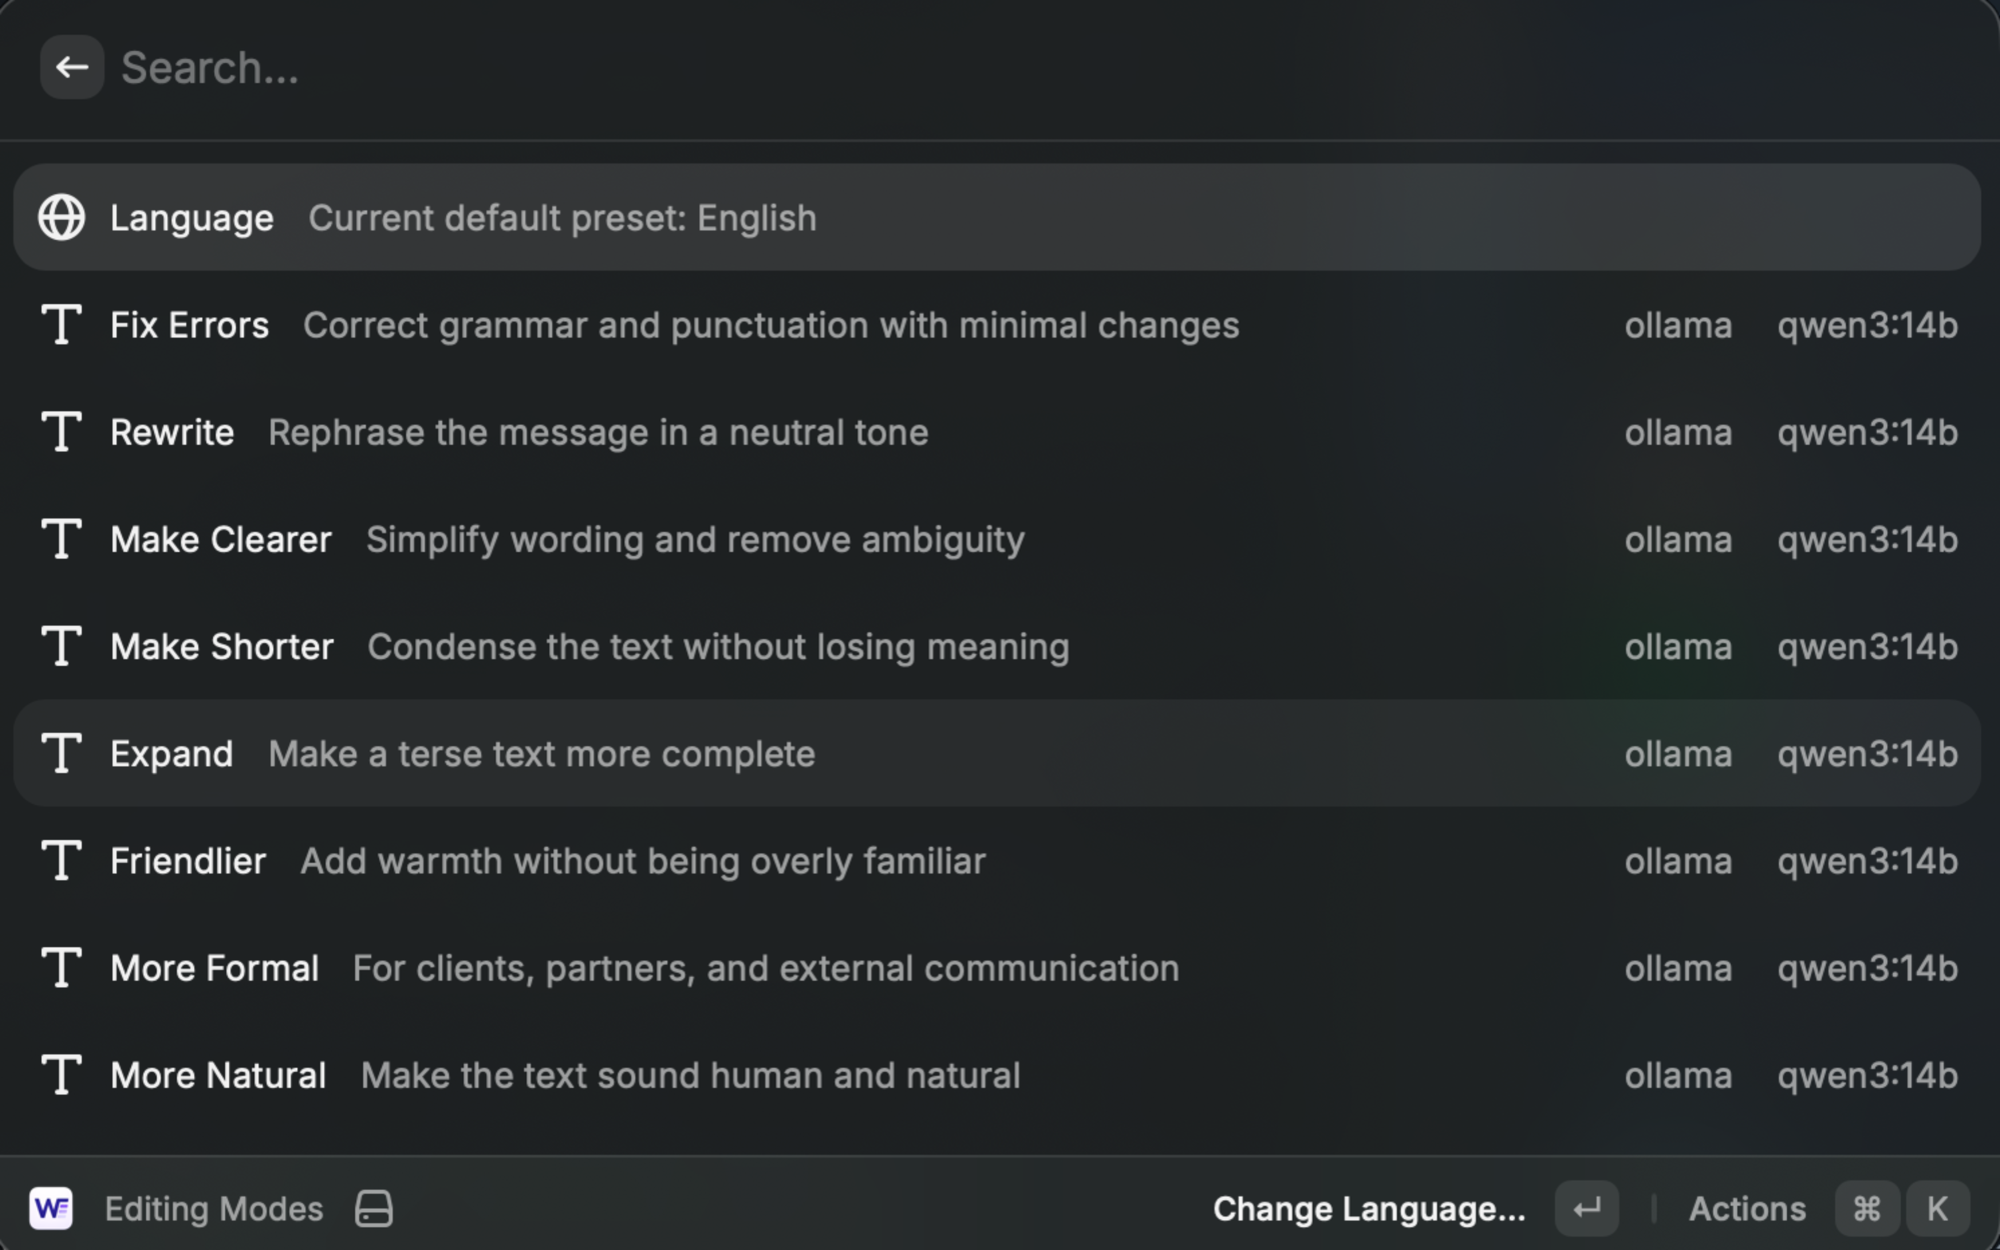
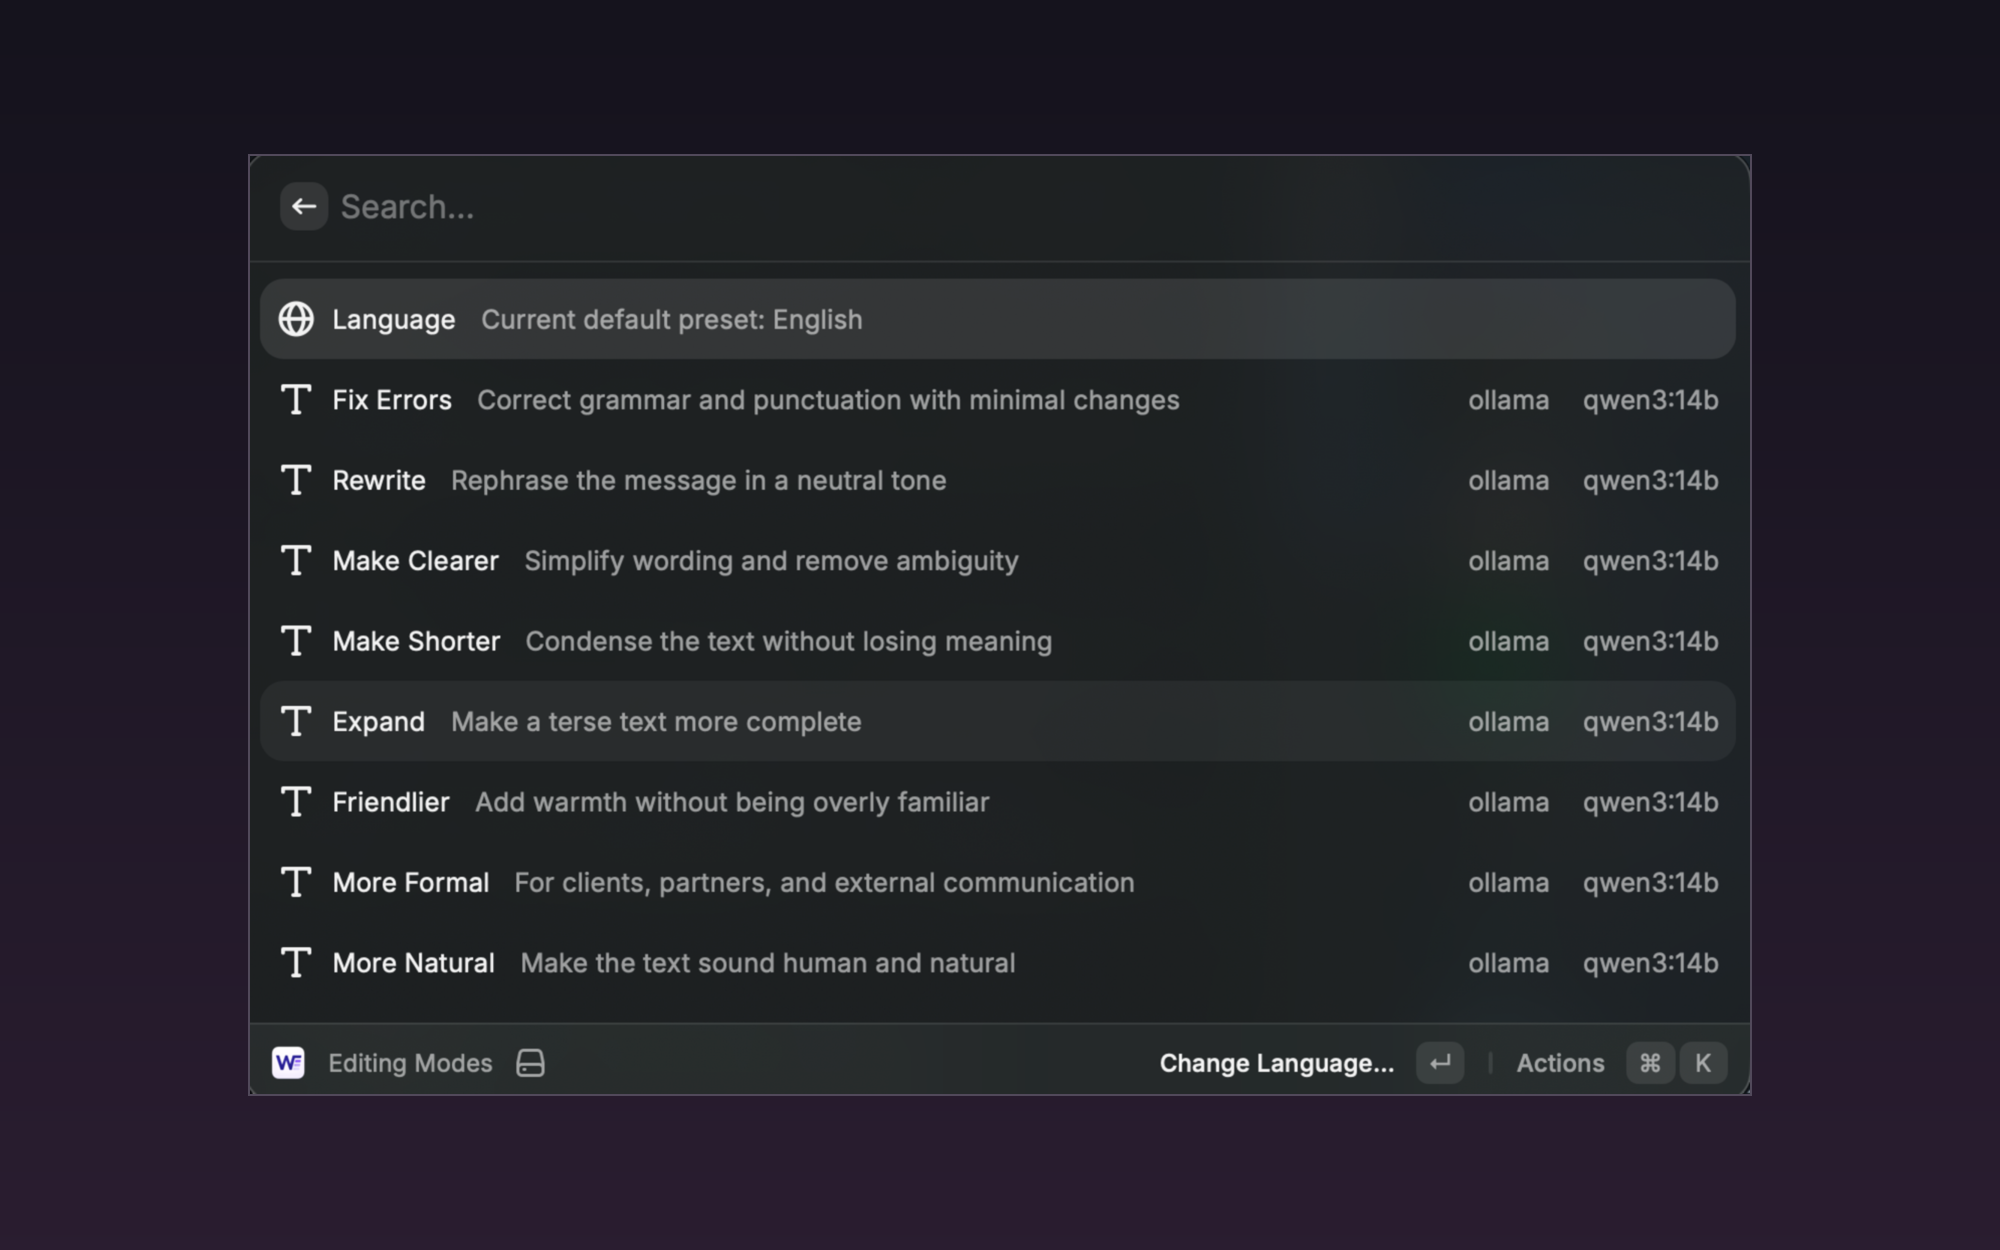
fix: satisfy raycast store validation

diff --git a/src/modes.ts b/src/modes.ts
@@ -179,14 +179,13 @@ function validateStoredModeDocument(value: unknown): StoredModeDocument {
     if (!Array.isArray(value.modes)) {
       throw damagedStorageError();
     }
+    const language = value.language;
 
     return {
       version: MODE_STORAGE_VERSION,
-      language: value.language,
+      language,
       sortMode: value.sortMode,
-      modes: value.modes.map((mode) =>
-        validateEditingMode(mode, value.language),
-      ),
+      modes: value.modes.map((mode) => validateEditingMode(mode, language)),
     };
   } catch {
     throw damagedStorageError();
@@ -210,7 +209,7 @@ function validateLegacyStoredModeDocument(
       ...(value.version === 2 && isSortMode(value.sortMode)
         ? { sortMode: value.sortMode }
         : {}),
-      modes: value.modes.map(validateEditingMode),
+      modes: value.modes.map((mode) => validateEditingMode(mode)),
     };
   } catch {
     throw damagedStorageError();
@@ -287,7 +286,7 @@ export async function loadModes(): Promise<EditingMode[]> {
 
 export async function resetModes(): Promise<EditingMode[]> {
   return queueMutation(async () => {
-    let language = DEFAULT_LANGUAGE;
+    let language: Language = DEFAULT_LANGUAGE;
     try {
       language = (await loadModeSettingsUnlocked()).language;
     } catch {

diff --git a/src/settings.tsx b/src/settings.tsx
@@ -153,7 +153,7 @@ export default function Settings() {
   );
 
   const sortAction = (
-    <ActionPanel.Submenu title={ui.orderInRewrite} icon={Icon.Bars3BottomLeft}>
+    <ActionPanel.Submenu title={ui.orderInRewrite} icon={Icon.List}>
       <Action
         title={ui.customOrder}
         icon={sortMode === "custom" ? Icon.Check : undefined}